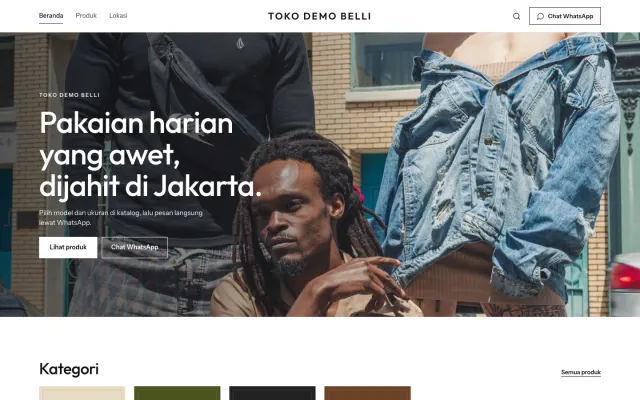
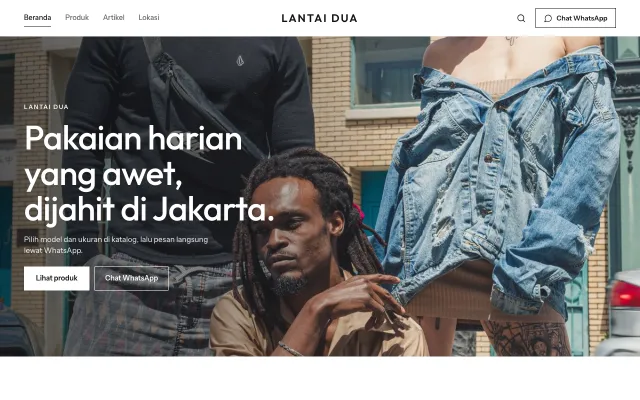
P1-805 Clothing's demo is Lantai Dua

diff --git a/src/lib/themes.ts b/src/lib/themes.ts
@@ -25,7 +25,7 @@ export const themes: Theme[] = [
     name: "Clothing",
     suits: "Everyday clothing, t-shirts, unisex",
     colors: ["#2d5b8a", "#121212", "#4e5b31", "#a4472a"],
-    demo: "demo",
+    demo: "lantaidua",
   },
   {
     key: "woman",
